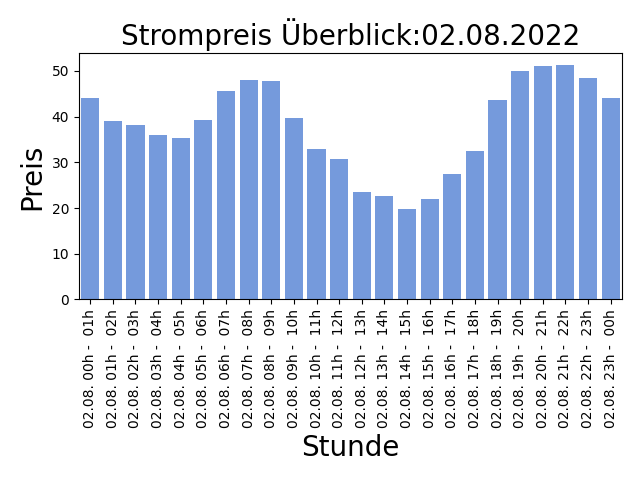
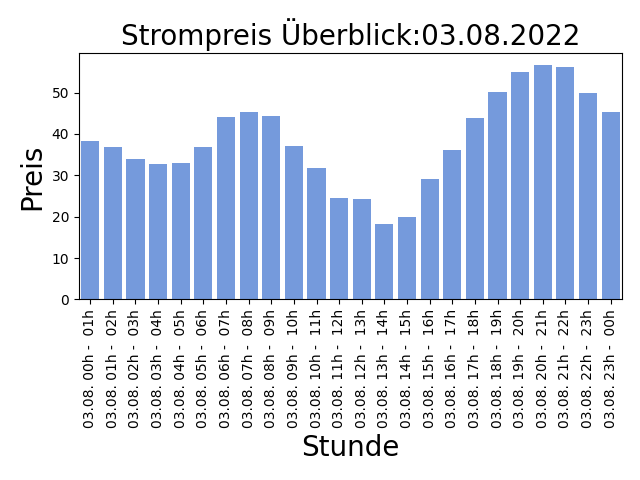
AUTOMATIC UPDATE PRICE LIST: 2022-08-02-14:30:06

diff --git a/README.md b/README.md
@@ -1,5 +1,5 @@
 
-## Strompreise für den 02.08.2022
+## Strompreise für den 03.08.2022
 
 Niedrige Preise deuten auf viel Sonnen und Windenergieerzeugung hin, ein hoher Anteil an erneuerbaren Energien bedeuted weniger CO2 Verbrauch!
 
@@ -7,31 +7,31 @@ Niedrige Preise deuten auf viel Sonnen und Windenergieerzeugung hin, ein hoher A
 
 | Stunde | Preis in Cent/kWh |
 |---|---|
-| 02.08. 00h -  01h | 44.098 | 
-| 02.08. 01h -  02h | 39.010000000000005 | 
-| 02.08. 02h -  03h | 38.21 | 
-| 02.08. 03h -  04h | 35.989 | 
-| 02.08. 04h -  05h | 35.269 | 
-| 02.08. 05h -  06h | 39.303 | 
-| 02.08. 06h -  07h | 45.704 | 
-| 02.08. 07h -  08h | 47.989999999999995 | 
-| 02.08. 08h -  09h | 47.89 | 
-| 02.08. 09h -  10h | 39.791000000000004 | 
-| 02.08. 10h -  11h | 32.826 | 
-| 02.08. 11h -  12h | 30.776999999999997 | 
-| 02.08. 12h -  13h | 23.487000000000002 | 
-| 02.08. 13h -  14h | 22.741 | 
-| **02.08. 14h -  15h** | **19.839** | 
-| 02.08. 15h -  16h | 21.9 | 
-| 02.08. 16h -  17h | 27.470999999999997 | 
-| 02.08. 17h -  18h | 32.411 | 
-| 02.08. 18h -  19h | 43.536 | 
-| 02.08. 19h -  20h | 49.947 | 
-| 02.08. 20h -  21h | 51.107 | 
-| 02.08. 21h -  22h | 51.31699999999999 | 
-| 02.08. 22h -  23h | 48.491 | 
-| 02.08. 23h -  00h | 44.126 | 
+| 03.08. 00h -  01h | 38.394999999999996 | 
+| 03.08. 01h -  02h | 36.807 | 
+| 03.08. 02h -  03h | 34.013999999999996 | 
+| 03.08. 03h -  04h | 32.63 | 
+| 03.08. 04h -  05h | 32.995999999999995 | 
+| 03.08. 05h -  06h | 36.876 | 
+| 03.08. 06h -  07h | 44.047000000000004 | 
+| 03.08. 07h -  08h | 45.386 | 
+| 03.08. 08h -  09h | 44.421 | 
+| 03.08. 09h -  10h | 37.024 | 
+| 03.08. 10h -  11h | 31.782 | 
+| 03.08. 11h -  12h | 24.461000000000002 | 
+| 03.08. 12h -  13h | 24.356 | 
+| **03.08. 13h -  14h** | **18.252000000000002** | 
+| 03.08. 14h -  15h | 19.908 | 
+| 03.08. 15h -  16h | 29.192 | 
+| 03.08. 16h -  17h | 36.159 | 
+| 03.08. 17h -  18h | 43.852 | 
+| 03.08. 18h -  19h | 50.035000000000004 | 
+| 03.08. 19h -  20h | 55.00599999999999 | 
+| 03.08. 20h -  21h | 56.689 | 
+| 03.08. 21h -  22h | 56.076 | 
+| 03.08. 22h -  23h | 50.001999999999995 | 
+| 03.08. 23h -  00h | 45.218 | 
 
 Preise der EPEX Spot ® Strombörse (neue Preise werden täglich um 14:00 veröffentlicht für den kompletten nächsten Tag).
 
-letzte Aktualisierung:01.08.2022 14:30
+letzte Aktualisierung:02.08.2022 14:30
